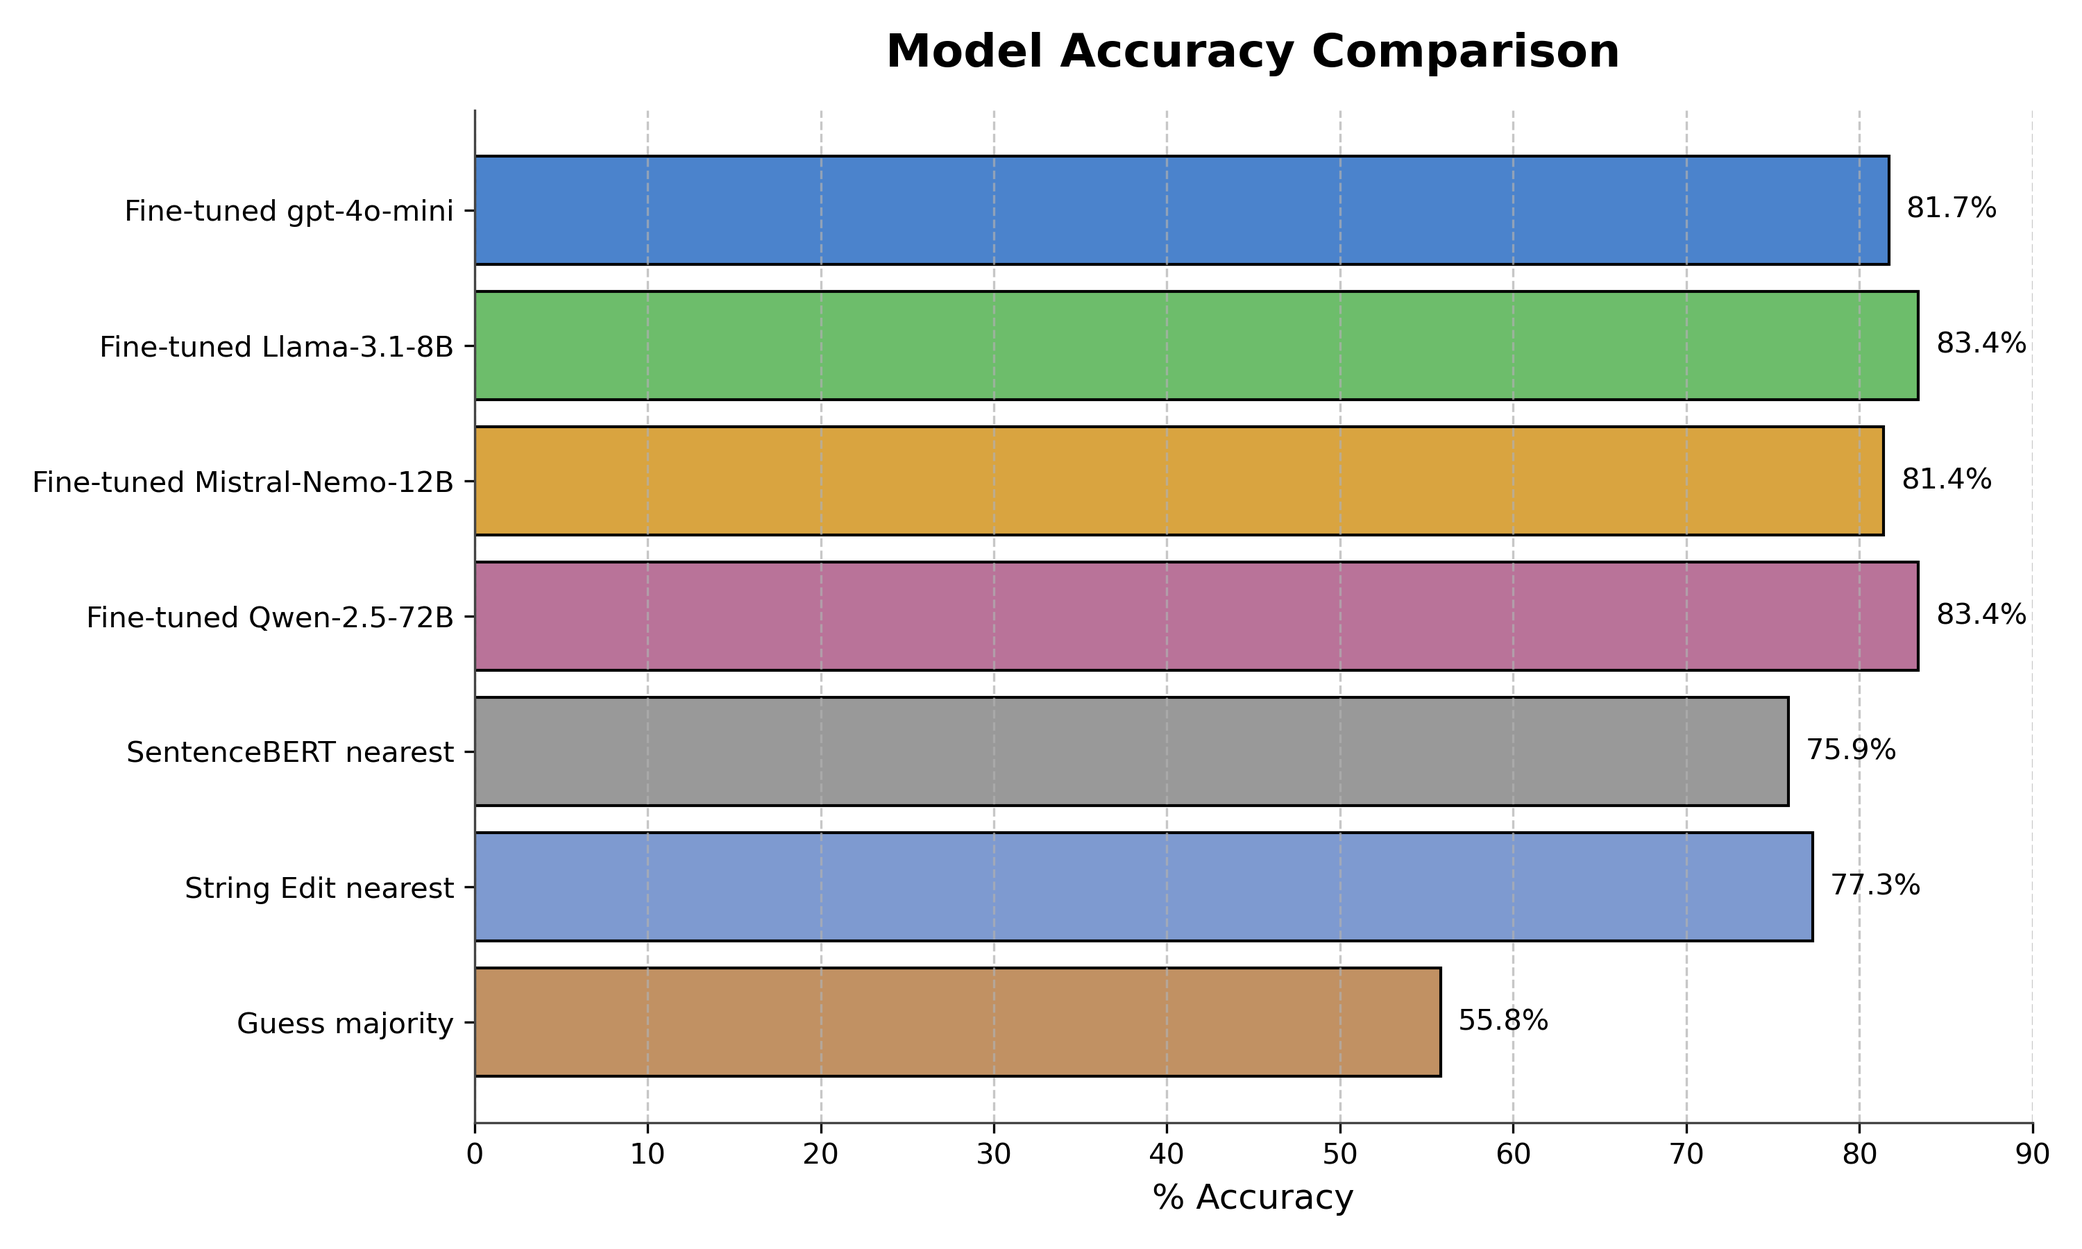
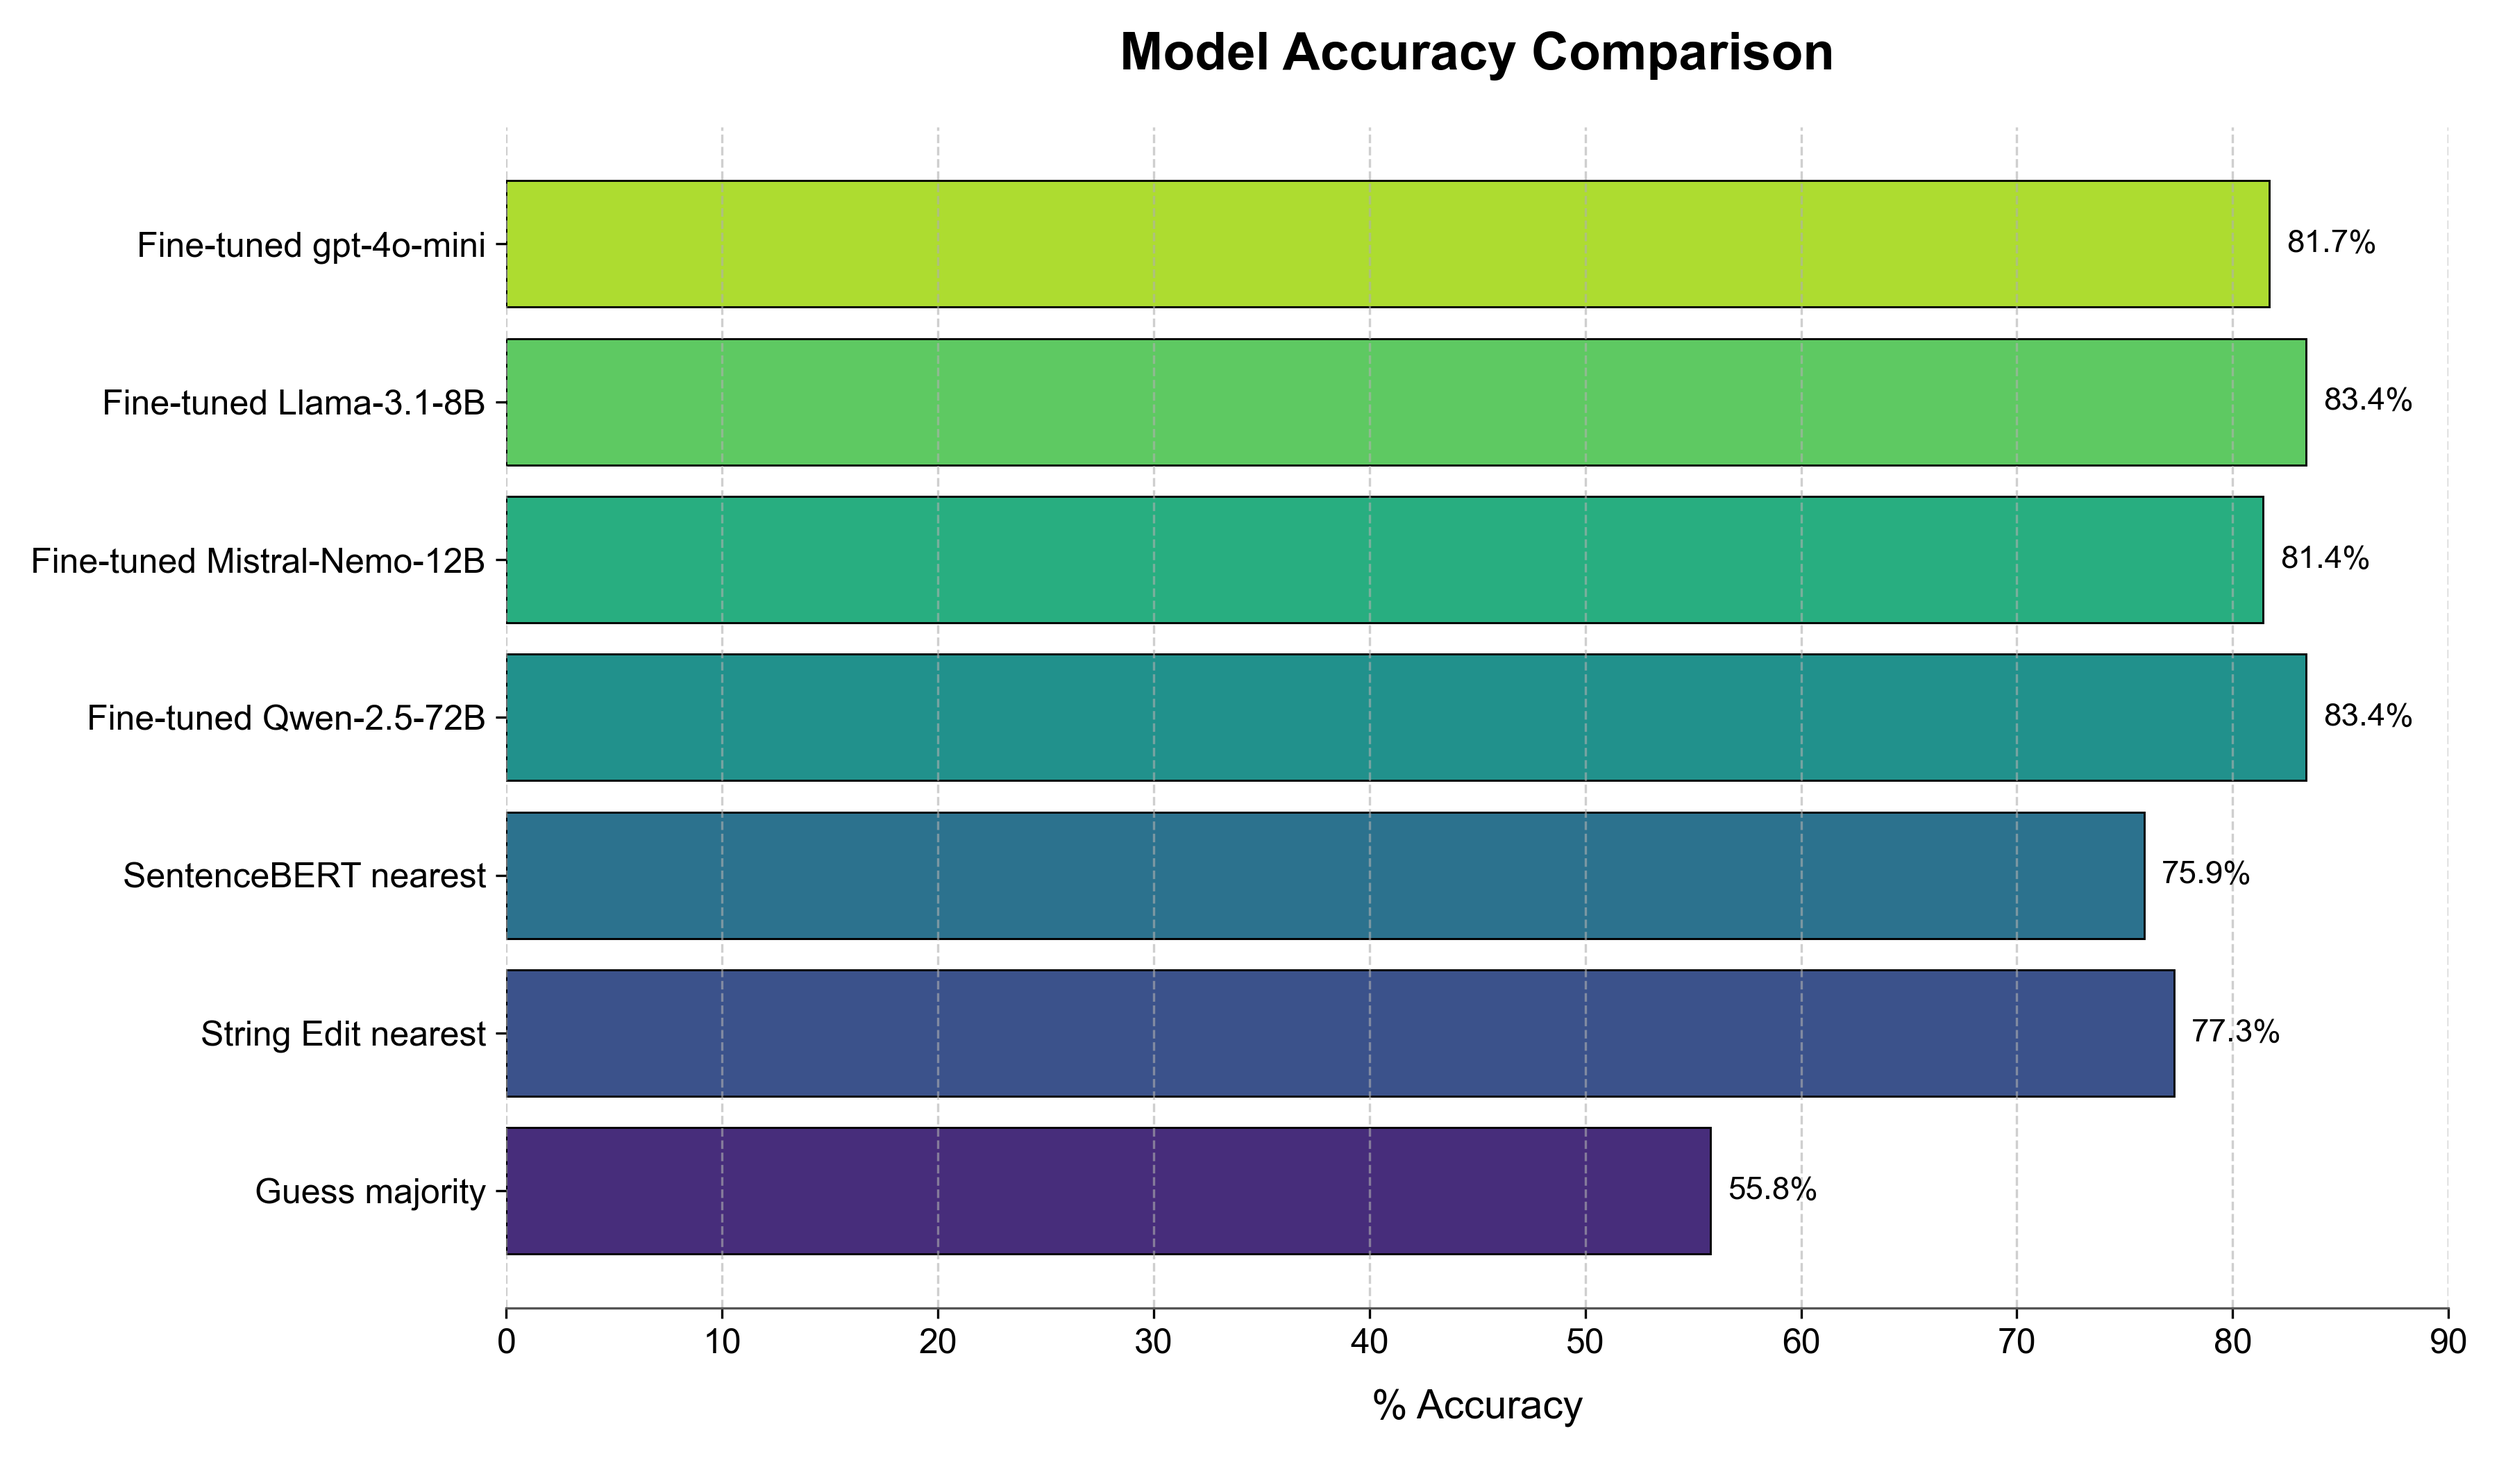
Rename files

diff --git a/scripts/06_Summary_figure.py b/scripts/06_Summary_figure.py
@@ -1,5 +1,11 @@
 import matplotlib.pyplot as plt
+import seaborn as sns
 import numpy as np
+import os
+
+# Ensure the output directory exists
+output_dir = "../figures/"
+os.makedirs(output_dir, exist_ok=True)
 
 # Data for the chart
 accuracy = [81.7, 83.4, 81.4, 83.4, 75.9, 77.3, 55.8]
@@ -13,53 +19,50 @@ labels = [
     "Guess majority",
 ]
 
-# Custom color scheme
-colors = [
-    "#4B83CC",  # Muted Blue
-    "#6DBD6B",  # Soft Green
-    "#D9A440",  # Golden Yellow
-    "#B97399",  # Muted Purple
-    "#999999",  # Neutral Gray
-    "#7E9AD0",  # Light Blue
-    "#C19163",  # Warm Brown
-]
-
 # Reverse data to display bars from top to bottom
 accuracy = accuracy[::-1]
 labels = labels[::-1]
-colors = colors[::-1]
+
+# Use a beautiful Seaborn color palette
+colors = sns.color_palette("viridis", len(labels))
 
 # Plot the bar chart
-fig, ax = plt.subplots(figsize=(10, 6))
-bars = ax.barh(labels, accuracy, color=colors, edgecolor="black")
+fig, ax = plt.subplots(figsize=(12, 7))
+bars = ax.barh(labels, accuracy, color=colors, edgecolor="black", linewidth=0.7)
 
 # Add data labels
 for bar in bars:
     width = bar.get_width()
     ax.text(
-        width + 1,
+        width + 0.8,
         bar.get_y() + bar.get_height() / 2,
         f"{width:.1f}%",
         va="center",
         ha="left",
-        fontsize=10,
+        fontsize=11,
+        color="black",
     )
 
 # Add title and labels
-ax.set_title("Model Accuracy Comparison", fontsize=16, fontweight="bold", pad=15)
-ax.set_xlabel("% Accuracy", fontsize=12)
+ax.set_title("Model Accuracy Comparison", fontsize=18, fontweight="bold", pad=20)
+ax.set_xlabel("% Accuracy", fontsize=14, labelpad=10)
 ax.set_xlim(0, 90)
-ax.grid(axis="x", linestyle="--", alpha=0.7)
+ax.grid(axis="x", linestyle="--", alpha=0.6, linewidth=0.8)
 
 # Customize the chart appearance
 ax.spines["top"].set_visible(False)
 ax.spines["right"].set_visible(False)
-ax.spines["left"].set_color("#444444")
-ax.spines["bottom"].set_color("#444444")
-ax.tick_params(axis="y", labelsize=10)
-ax.tick_params(axis="x", labelsize=10)
+ax.spines["left"].set_color("#555555")
+ax.spines["bottom"].set_color("#555555")
+ax.tick_params(axis="y", labelsize=12)
+ax.tick_params(axis="x", labelsize=12)
+
+# Enhance the overall aesthetics using Seaborn's style
+sns.set_style("whitegrid")
+sns.despine(left=True)
 
 # Save the chart as an image
 plt.tight_layout()
-plt.savefig("../figures/summary_barchart.png", dpi=300)
+output_path = os.path.join(output_dir, "summary_barchart_nice.png")
+plt.savefig(output_path, dpi=300)
 plt.show()
